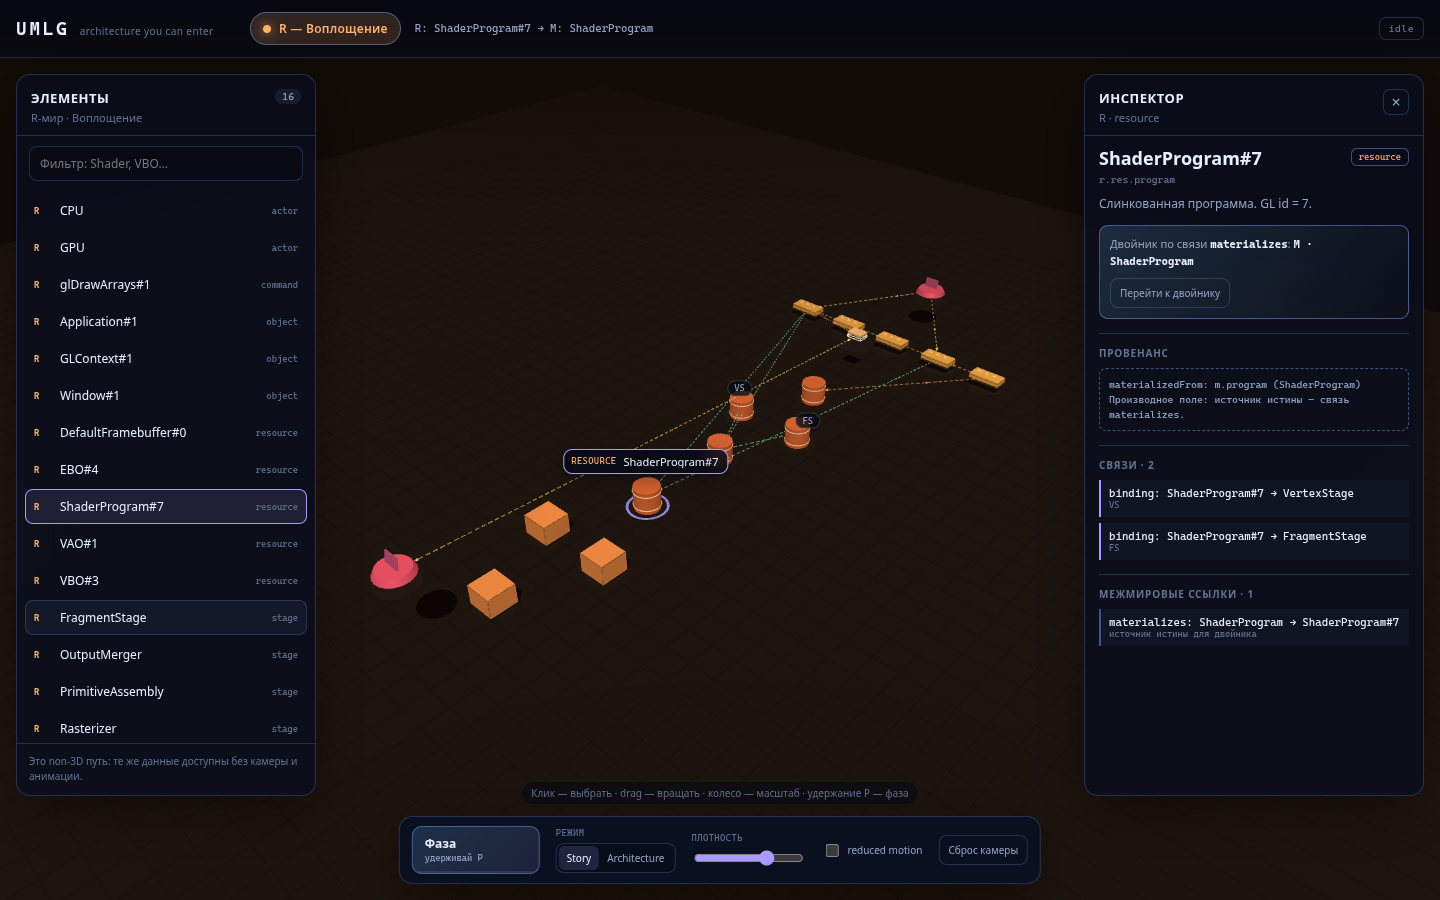
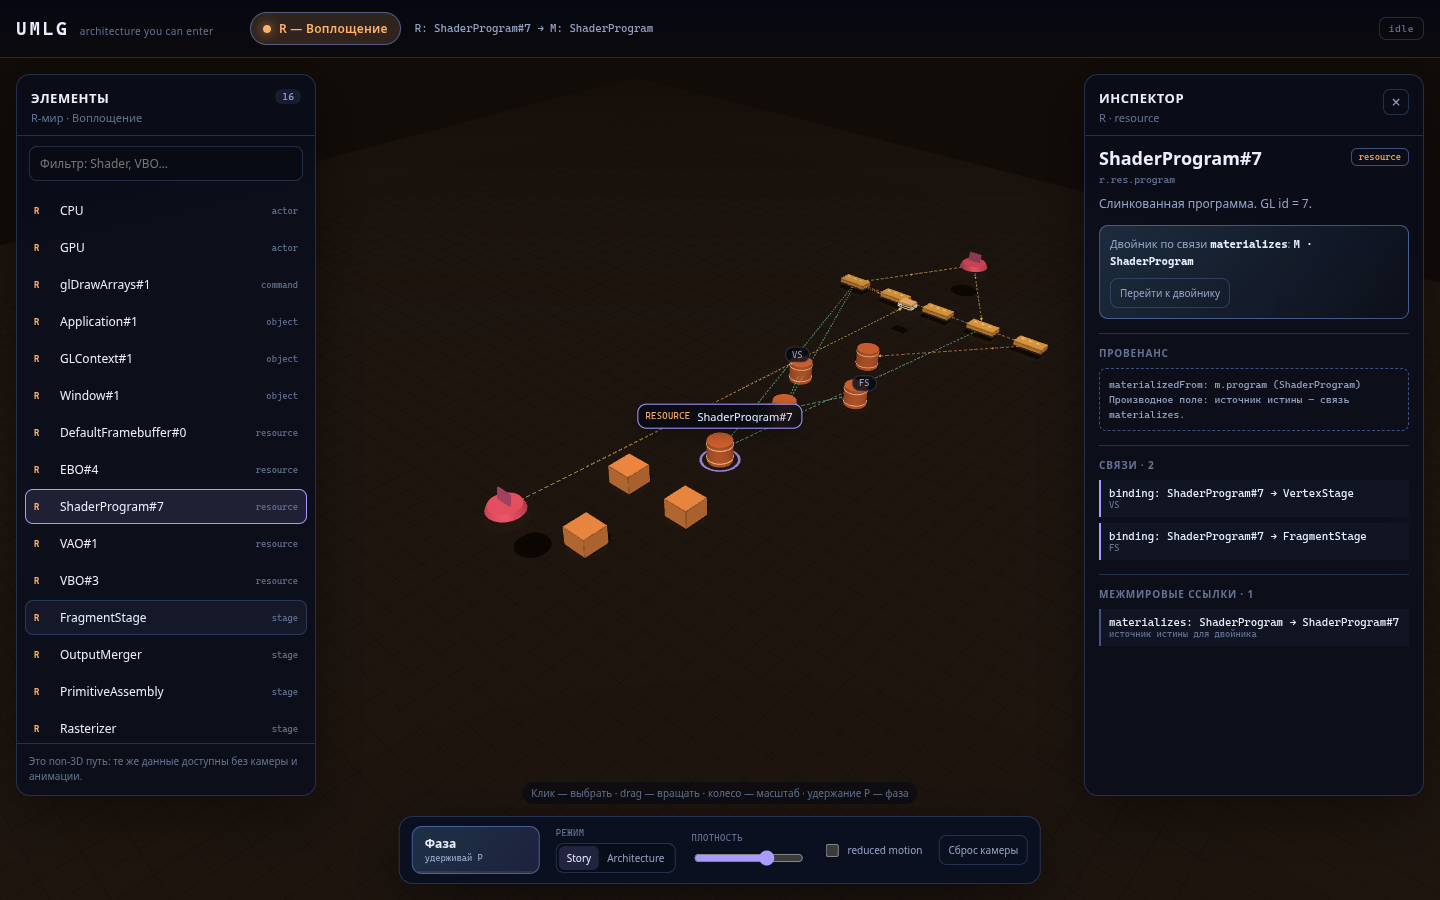
Center camera on twin after phase arrival

Changed region(s): [[0.3125, 0.3111, 0.75, 0.6533], [0.25, 0.5911, 0.375, 0.6844], [0.6562, 0.28, 0.6875, 0.3111]]

diff --git a/viewer/src/main.ts b/viewer/src/main.ts
@@ -88,6 +88,11 @@ async function main(): Promise<void> {
     onProgress: (value) => ui.setProgress(value),
     onSwap: (targetWorld, targetId) => {
       scene.showWorld(targetWorld, targetId ?? null);
+      if (targetId) {
+        // The swap happens under the opaque phase veil, so centering the twin
+        // reads as an arrival rather than a camera fly-through.
+        scene.focusOn(targetId);
+      }
       ui.setWorld(targetWorld);
       applyMode();
     },

diff --git a/CHANGELOG.md b/CHANGELOG.md
@@ -28,6 +28,7 @@
 - 3D-сцены M- и R-миров из `layout.json`: цеха, призрак `Shader`, ресурсы, стадии, акторы.
 - Инспектор с членами, связями, инвариантами и провенансом; список элементов с фильтром как non-3D путь.
 - Фазовый переход по `P` с вуалью, таймингами и `reduced motion`; перенос фокуса на двойника.
+- При переходе к двойнику камера центрируется на выбранном элементе под вуалью.
 - HUD мира и двойника, режимы Story/Architecture, плотность подписей, сброс камеры.
 - Скриншоты вьюера в `viewer/screenshots/`.
 - `docs/handoff.md` — состояние проекта и правила передачи между сессиями.

diff --git a/viewer/README.md b/viewer/README.md
@@ -48,7 +48,7 @@ http://localhost:5173/?model=examples/hello-triangle/model.json&layout=examples/
 | Плотность | прозрачность подписей и линий связей |
 | reduced motion | убирает анимацию перехода, мир меняется сразу |
 | Сброс камеры | возвращает камеру из `layout.json` |
-| «Перейти к двойнику» | переход в другой мир с выбором парного элемента |
+| «Перейти к двойнику» | переход в другой мир с выбором парного элемента; камера центрируется на нём |
 
 Фазовый переход следует [`../spec/04-transitions.md`](../spec/04-transitions.md):
 
